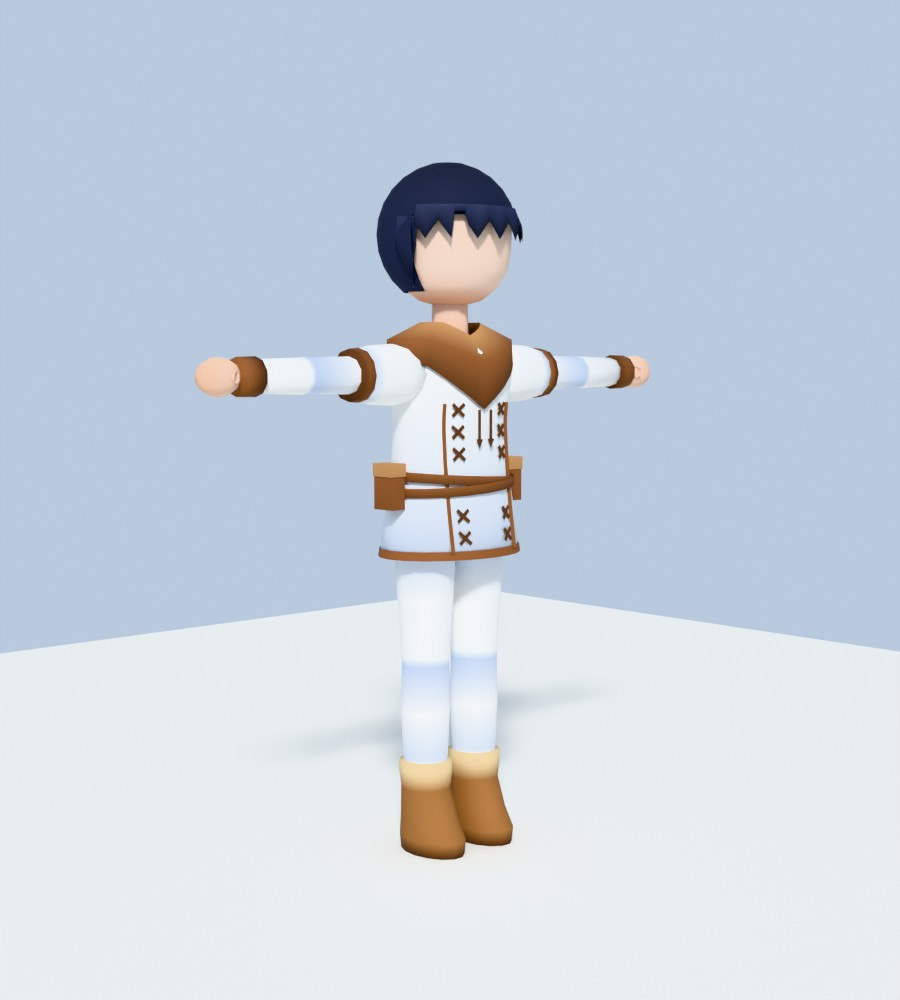
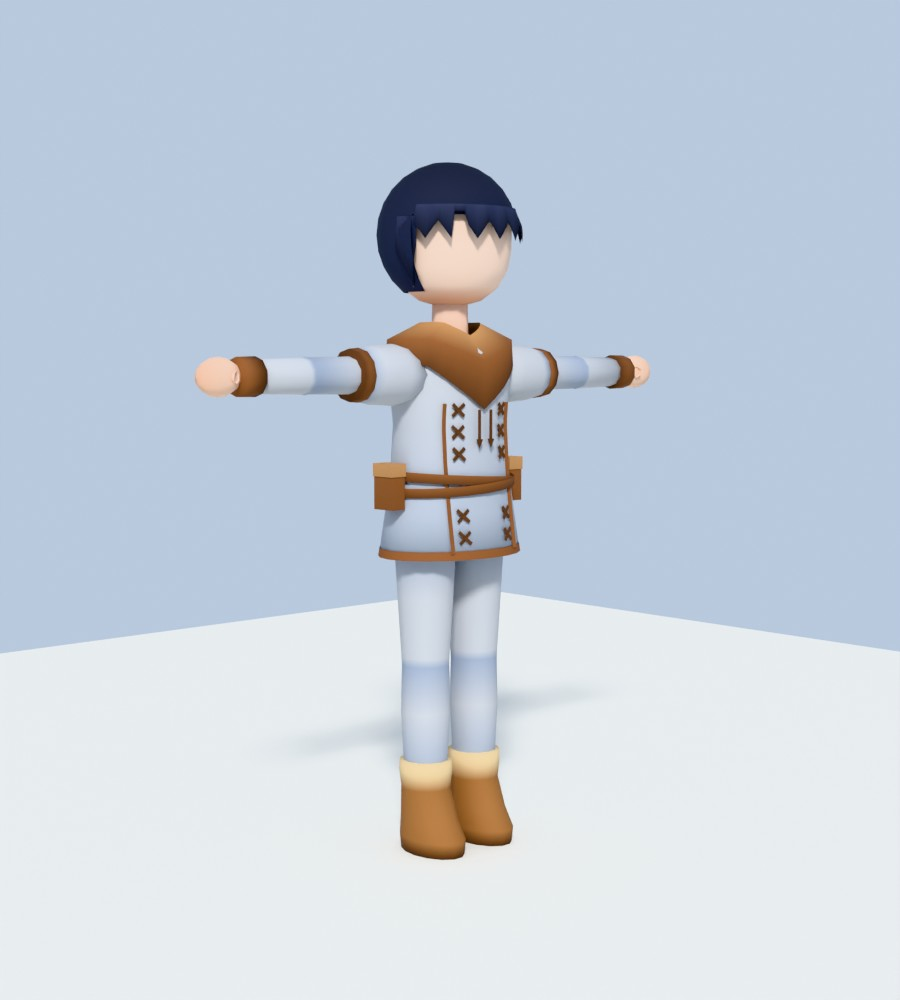
로타 옷을 흰색에서 가벼운 회색으로
Claude-Session: https://claude.ai/code/session_013o2MuY9sDztt8LyjMZEytH

Changed region(s): [[0.28, 0.341, 0.6844, 0.775]]

diff --git a/tools/character/rota.py b/tools/character/rota.py
@@ -24,8 +24,8 @@ SKIN = hexc("#f7d6bf")
 SKIN_SH = hexc("#e6b393")
 HAIR = hexc("#20212c")
 HAIR_HI = hexc("#3a3e55")
-WHITE = hexc("#f6f5f1")
-WHITE_SH = hexc("#c9d7ee")        # the drawing shades white cloth in pale blue
+WHITE = hexc("#babcc0")         # light grey cloth
+WHITE_SH = hexc("#97a2b4")        # shaded toward a cool grey-blue, like the drawing
 BROWN = hexc("#8c5a37")
 BROWN_D = hexc("#5f3d26")
 BROWN_L = hexc("#b98a5c")
